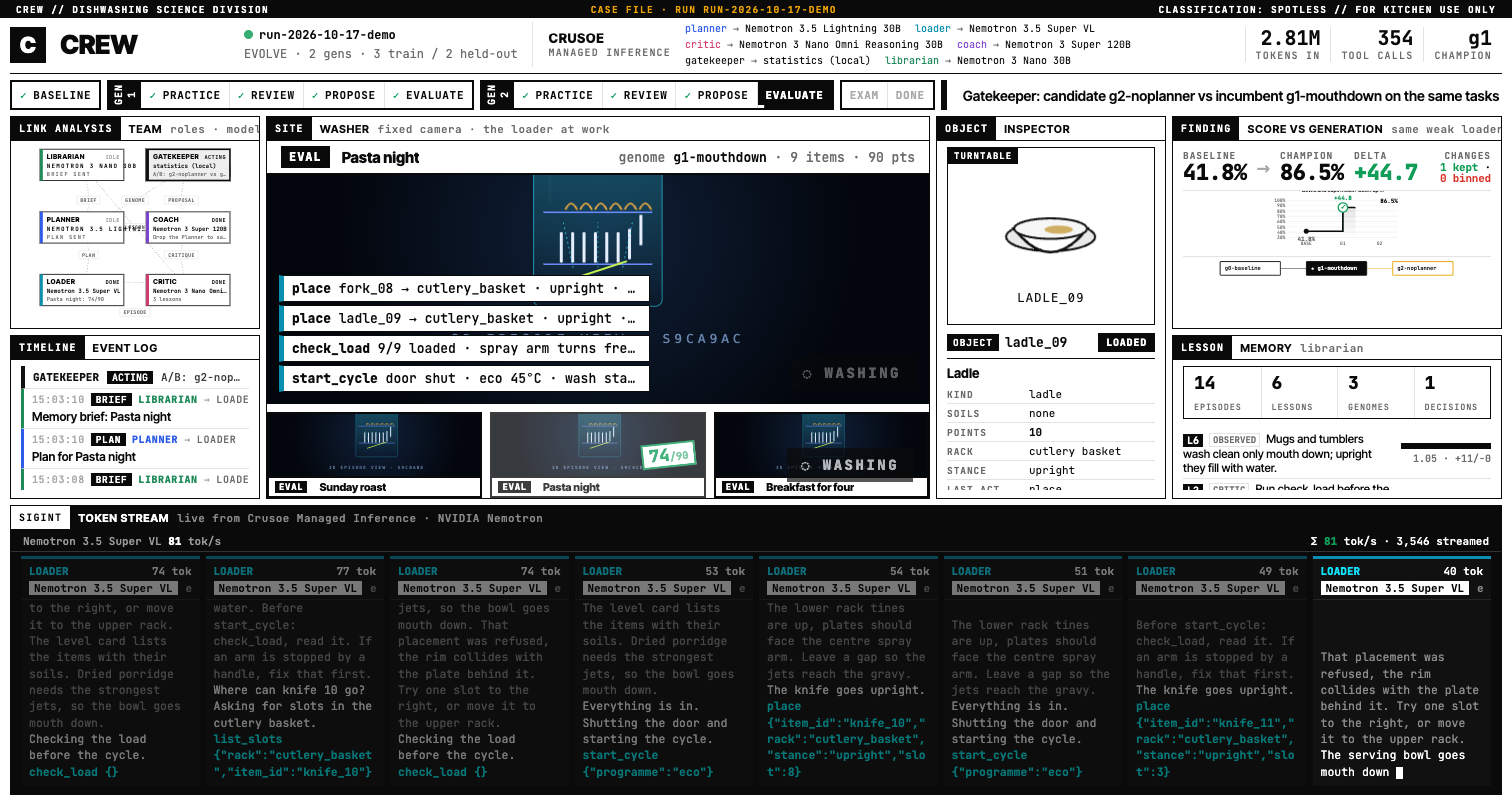
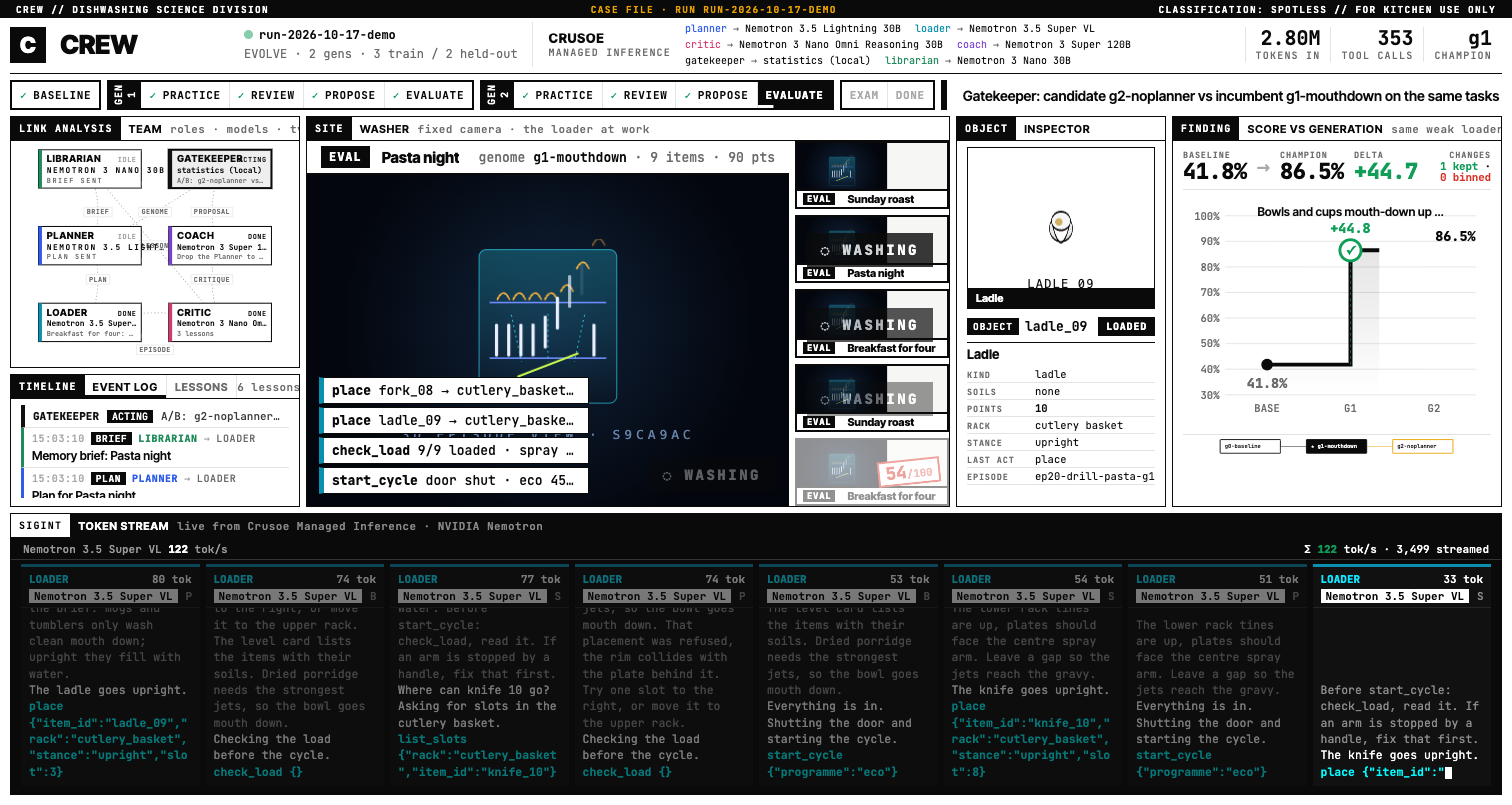
studio: live-run pass - FINDING owns the right column, lessons as a timeline tab, SITE thumbnails in a side column, turntable captioned with the object, task names on token lanes, bigger link-analysis type

Changed region(s): [[0.0, 0.1242, 0.9947, 0.9627], [0.6528, 0.2484, 0.746, 0.3106], [0.8393, 0.0311, 0.8704, 0.0621]]

diff --git a/studio/src/main.ts b/studio/src/main.ts
@@ -23,7 +23,7 @@ let dirty = true;
 const pendingPackets: MessageView[] = [];
 let lastExamSeq = 0;
 
-const tokens = tokenPanel($('#waterfall'), $('#meter'));
+const tokens = tokenPanel($('#waterfall'), $('#meter'), (key) => state.episodes[key]?.taskTitle);
 const inspector = new Inspector($<HTMLIFrameElement>('#tt'), $('#objcard'), $('.turntable'));
 
 const source = startSource(
@@ -199,8 +199,8 @@ function renderGraph(s: StudioState): void {
     const t = g.querySelectorAll('text');
     t[1]!.textContent = a.status.toUpperCase();
     const mn = modelName(s.run?.models[r]);
-    t[2]!.textContent = mn.length > 21 ? `${mn.slice(0, 20)}…` : mn;
-    t[3]!.textContent = a.label.length > 23 ? `${a.label.slice(0, 22)}…` : a.label;
+    t[2]!.textContent = mn.length > 19 ? `${mn.slice(0, 18)}…` : mn;
+    t[3]!.textContent = a.label.length > 21 ? `${a.label.slice(0, 20)}…` : a.label;
   }
 }
 
@@ -294,10 +294,12 @@ function renderLive(s: StudioState): void {
   const W = stage.clientWidth;
   const H = stage.clientHeight;
   const others = live.filter((e) => e.key !== focusKey);
-  const thumbH = others.length ? Math.min(118, H * 0.24) : 0;
-  const gap = 8;
-  const bigH = H - (thumbH ? thumbH + gap : 0);
-  const thumbW = thumbH * (W / bigH);
+  // The other episodes stack in a column on the right, so the hero view keeps a less extreme aspect.
+  const gap = 6;
+  const thumbW = others.length ? Math.round(Math.min(W * 0.24, 260)) : 0;
+  const bigW = W - (thumbW ? thumbW + gap : 0);
+  const bigH = H;
+  const thumbH = others.length ? Math.min((H - gap * (others.length - 1)) / others.length, thumbW * 0.75) : 0;
   for (const e of live) {
     let c = cards.get(e.key);
     if (!c) {
@@ -319,16 +321,16 @@ function renderLive(s: StudioState): void {
     }
     const big = e.key === focusKey;
     const idx = others.indexOf(e);
-    const rect = big ? { x: 0, y: 0, w: W, h: bigH } : { x: idx * (thumbW + gap), y: bigH + gap, w: thumbW, h: thumbH };
+    const rect = big ? { x: 0, y: 0, w: bigW, h: bigH } : { x: bigW + gap, y: idx * (thumbH + gap), w: thumbW, h: thumbH };
     Object.assign(c.el.style, { left: `${rect.x}px`, top: `${rect.y}px`, width: `${rect.w}px`, height: `${rect.h}px` });
     const loading = c.el.classList.contains('loading');
     c.el.className = `card ${big ? 'big' : 'small'} ${!big && e.finishedAt ? 'leaving' : ''} ${loading ? 'loading' : ''}`;
     // The page renders at the big size (below the card's header strip); thumbnails are scaled down copies.
-    const scale = rect.w / W;
+    const scale = big ? 1 : Math.min(rect.w / bigW, rect.h / bigH);
     const HDR = innerHeight <= 900 ? 34 : 40;
     // The page's own heading is hidden with `&nohud`, so nothing needs cropping any more.
     const CROP = 0;
-    Object.assign(c.frame.style, { width: `${W}px`, height: `${bigH - HDR + CROP}px`, top: big ? `${HDR - CROP}px` : `${-CROP * scale}px`, transform: `scale(${scale})` });
+    Object.assign(c.frame.style, { width: `${bigW}px`, height: `${bigH - HDR + CROP}px`, top: big ? `${HDR - CROP}px` : `${-CROP * scale}px`, transform: `scale(${scale})` });
     const sig = `${big}|${e.stream.length}|${e.finishedAt}|${e.wash}`;
     if (sig !== c.sig) {
       c.sig = sig;
@@ -502,7 +504,9 @@ let memAt = '';
 function renderMemory(s: StudioState): void {
   const m = s.memory;
   if (!m || m.at === memAt) return;
+  if (memAt && document.visibilityState === 'visible') setTab('mem', true);
   memAt = m.at;
+  $('#memtag').textContent = `${m.stats.lessons} lessons`;
   const counts = Object.entries(m.stats).map(([k, v]) => `<div><b>${v}</b><span>${k.replace(/([A-Z])/g, " $1")}</span></div>`).join('');
   const lessons = m.topLessons
     .slice(0, 6)
@@ -633,6 +637,15 @@ addEventListener('keydown', (e) => {
 addEventListener('resize', () => (dirty = true));
 
 // ---------------------------------------------------------------------------------------------
+
+// Timeline tabs: the event log and the lessons share the left column. A memory update shows the lessons for a while.
+let tabTimer = 0;
+function setTab(t: string, auto = false): void {
+  $('#chatter').dataset['tab'] = t;
+  clearTimeout(tabTimer);
+  if (auto) tabTimer = window.setTimeout(() => ($('#chatter').dataset['tab'] = 'log'), 9000);
+}
+document.querySelectorAll<HTMLButtonElement>('#chatter .tab').forEach((b) => b.addEventListener('click', () => setTab(b.dataset['t'] ?? 'log')));
 
 buildGraph();
 let lastSlow = 0;

diff --git a/studio/src/style.css b/studio/src/style.css
@@ -452,3 +452,36 @@ main { grid-template-columns: 310px minmax(0, 1fr) 290px 420px; grid-template-ro
   .term { padding-top: 50px; }
   .term .meter { top: 24px; height: 22px; }
 }
+
+/* Live-run pass: FINDING owns the right column; lessons are a tab of the timeline; turntable caption. */
+main { grid-template-rows: minmax(0, 1.8fr) minmax(0, 1fr) 36vh; }
+#evo { grid-column: 4; grid-row: 1 / 3; }
+#memory { display: none; }
+.tabs h2 { gap: 0; }
+.tab { all: unset; cursor: pointer; align-self: stretch; display: flex; align-items: center; padding: 0 10px; font: 700 12px var(--sans); color: var(--dim); border-right: 1px solid var(--hair); }
+.tabs[data-tab='log'] .tab[data-t='log'], .tabs[data-tab='mem'] .tab[data-t='mem'] { color: var(--ink); box-shadow: inset 0 -3px 0 var(--ink); }
+.tabs h2 em { margin-left: auto; padding-right: 4px; }
+.tabs[data-tab='log'] #mem { display: none; }
+.tabs[data-tab='mem'] #feed { display: none; }
+#chatter #mem { height: 100%; }
+.turntable::after { content: none; }
+.tt-cap { position: absolute; left: 0; right: 0; bottom: 0; padding: 3px 8px; background: var(--ink); color: #fff; font: 700 11px var(--sans); text-transform: capitalize; white-space: nowrap; overflow: hidden; text-overflow: ellipsis; }
+.tt-cap:empty { display: none; }
+.objcard { overflow-y: auto; scrollbar-width: thin; }
+.node-name { font-size: 14px; }
+.node-model { font-size: 11.5px; }
+.node-status { font-size: 10px; }
+.node-label { font-size: 10px; }
+.elabel text { font-size: 10px; }
+.card.small .ov-top { height: 18px; }
+@media (max-height: 900px) {
+  main { grid-template-columns: 290px minmax(0, 1fr) 210px 330px; grid-template-rows: minmax(0, 1.9fr) minmax(0, 1fr) 35vh; }
+  .pr { grid-template-columns: 60px 1fr; padding: 1px 0; font-size: 10.5px; }
+  .pk { font-size: 8.5px; }
+  .ent-name { margin: 3px 0 0; }
+  .turntable { max-height: 46%; }
+  .tab { font-size: 11px; padding: 0 8px; }
+}
+.lh .task { color: #ddd; font-weight: 600; flex: 1; min-width: 0; }
+.lh i { max-width: 100%; overflow: hidden; text-overflow: ellipsis; }
+@media (max-height: 900px) { .card.big .ov-meta { display: none; } }

diff --git a/studio/index.html b/studio/index.html
@@ -30,9 +30,10 @@
           <h2><span class="ot">LINK ANALYSIS</span> Team <em>roles · models · typed links</em></h2>
           <svg id="graph" viewBox="0 6 360 310"></svg>
         </section>
-        <section id="chatter" class="panel">
-          <h2><span class="ot">TIMELINE</span> Event log</h2>
+        <section id="chatter" class="panel tabs" data-tab="log">
+          <h2><span class="ot">TIMELINE</span><button class="tab" data-t="log">Event log</button><button class="tab" data-t="mem">Lessons</button><em id="memtag"></em></h2>
           <div id="feed" class="feed"></div>
+          <div id="mem"></div>
         </section>
         <section id="live" class="panel">
           <h2><span class="ot">SITE</span> Washer <em>fixed camera · the loader at work</em></h2>
@@ -40,7 +41,7 @@
         </section>
         <section id="inspector" class="panel">
           <h2><span class="ot">OBJECT</span> Inspector</h2>
-          <div class="turntable"><iframe id="tt" title="turntable"></iframe><div class="tt-empty">no object in hand</div></div>
+          <div class="turntable"><iframe id="tt" title="turntable"></iframe><div class="tt-empty">no object in hand</div><div class="tt-cap" id="ttcap"></div></div>
           <div id="objcard" class="objcard"></div>
         </section>
         <section id="evo" class="panel">
@@ -48,10 +49,6 @@
           <div id="evohead" class="evohead"></div>
           <svg id="chart" viewBox="0 0 520 300"></svg>
           <div id="lineage"></div>
-        </section>
-        <section id="memory" class="panel">
-          <h2><span class="ot">LESSON</span> Memory <em>librarian</em></h2>
-          <div id="mem"></div>
         </section>
         <section id="tokens" class="panel term">
           <h2><span class="ot">SIGINT</span> Token stream <em>live from Crusoe Managed Inference · NVIDIA Nemotron</em></h2>

diff --git a/studio/src/tokens.ts b/studio/src/tokens.ts
@@ -41,7 +41,7 @@ export interface TokenPanel {
   push(e: StreamEv): void;
 }
 
-export function tokenPanel(root: HTMLElement, meter: HTMLElement): TokenPanel {
+export function tokenPanel(root: HTMLElement, meter: HTMLElement, taskOf: (episodeKey: string) => string | undefined = () => undefined): TokenPanel {
   const lanes = new Map<string, Lane>();
   const order: Lane[] = [];
   const grid = document.createElement('div');
@@ -146,7 +146,7 @@ export function tokenPanel(root: HTMLElement, meter: HTMLElement): TokenPanel {
       l.dirty = false;
       const live = !l.done || l.pending.length > 0;
       l.el.classList.toggle('done', !live);
-      l.head.innerHTML = `<div><b>${l.role}</b><em>${Math.round(l.chars / CPT)} tok</em></div><div><i>${esc(short(l.model))}</i><span>${esc(l.episodeKey.replace(/^(train|eval|exam)-/, ''))}</span></div>`;
+      l.head.innerHTML = `<div><b>${l.role}</b><span class="task">${esc(taskOf(l.episodeKey) ?? (l.episodeKey ? l.episodeKey : 'team'))}</span><em>${Math.round(l.chars / CPT)} tok</em></div><div><i>${esc(short(l.model))}</i></div>`;
       l.body.innerHTML = `<div>${l.segs.map((s) => `<span class="c-${s.ch}">${esc(s.text)}</span>`).join('')}${live ? '<span class="caret"></span>' : ''}</div>`;
     }
     if (now - lastMeter > 250) {

diff --git a/studio/src/inspector.ts b/studio/src/inspector.ts
@@ -144,6 +144,8 @@ export class Inspector {
       return;
     }
     this.setFrame(e, o.itemId);
+    const cap = this.box.querySelector('.tt-cap');
+    if (cap) cap.textContent = o.label ?? (o.kind ? o.kind.replace(/_/g, ' ') : o.itemId);
     const st = o.status;
     const pill = st === 'clean' ? 'CLEAN' : st === 'not-clean' ? 'NOT CLEAN' : st === 'loaded' ? 'LOADED' : 'DIRTY';
     const pending = '<span class="pend">pending</span>';
